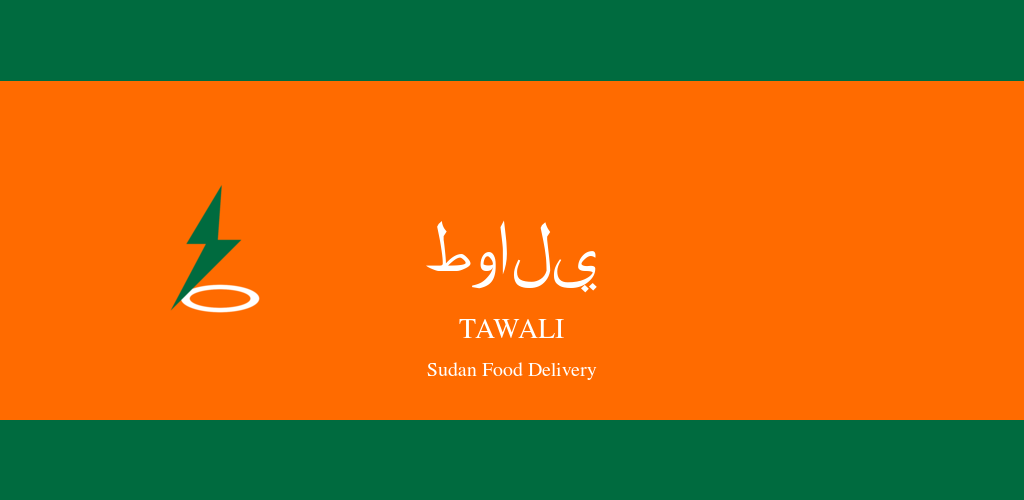
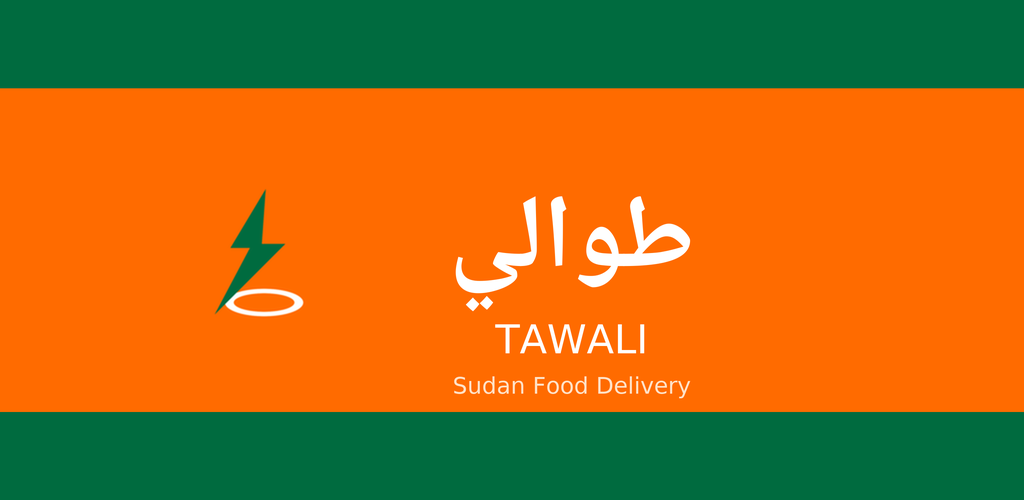
fix: طوالي in der Feature-Grafik korrekt setzen
Der Markenname stand unverbunden und spiegelverkehrt in der Grafik -- der
klassische Fehler beim Zeichnen arabischer Schrift ohne Textshaper.

Jetzt ueber libraqm/HarfBuzz gesetzt (ImageFont.Layout.RAQM, direction="rtl")
mit dem Rohtext und NotoNaskhArabic-Bold. Wichtig: arabic_reshaper darf NICHT
davorgeschaltet werden, das macht die Verbindungen wieder kaputt.

Das Logo wurde unveraendert aus der bisherigen Datei uebernommen, damit die
Marke gleich bleibt. Die falschen Fassungen liegen samt Erklaerung unter
play_store/alt-arabisch-falsch/.

Changed region(s): [[0.0, 0.39, 1.0, 0.84], [0.0, 0.15, 1.0, 0.18], [0.1562, 0.39, 0.3125, 0.63]]

diff --git a/play_store/alt-arabisch-falsch/WARUM.md b/play_store/alt-arabisch-falsch/WARUM.md
@@ -1,0 +1,23 @@
+# Warum diese Fassungen ersetzt wurden
+
+In beiden stand طوالي falsch: die Buchstaben waren unverbunden und standen in
+umgekehrter Reihenfolge.
+
+**Ursache:** Pillow setzt arabische Zeichen ohne Textshaper in ihrer Einzelform
+und in logischer statt visueller Reihenfolge. Das Wort zerfaellt dadurch und
+erscheint gespiegelt.
+
+**Falscher Loesungsversuch:** `arabic_reshaper` + `python-bidi` waehlen zwar die
+Praesentationsformen (U+FEF2 U+FEDF U+FE8D U+FEEE U+FEC3), aber Pillows
+Basic-Layout setzt sie ohne kursive Verbindung aneinander -- das Ergebnis bleibt
+zerfallen.
+
+**Richtig:** Pillow ist hier mit **libraqm/HarfBuzz** gebaut
+(`PIL.features.check("raqm")` -> True). Damit den **Rohtext** uebergeben:
+
+    f = ImageFont.truetype(pfad, groesse, layout_engine=ImageFont.Layout.RAQM)
+    d.text(xy, "طوالي", font=f, direction="rtl")
+
+Kein arabic_reshaper davor -- das wuerde die Verbindungen wieder zerstoeren.
+Schriftart: NotoNaskhArabic-Bold (aus fonts-noto-core, am 22.08. nachinstalliert;
+DejaVu Sans kann Arabisch zwar darstellen, sieht aber generisch aus).
